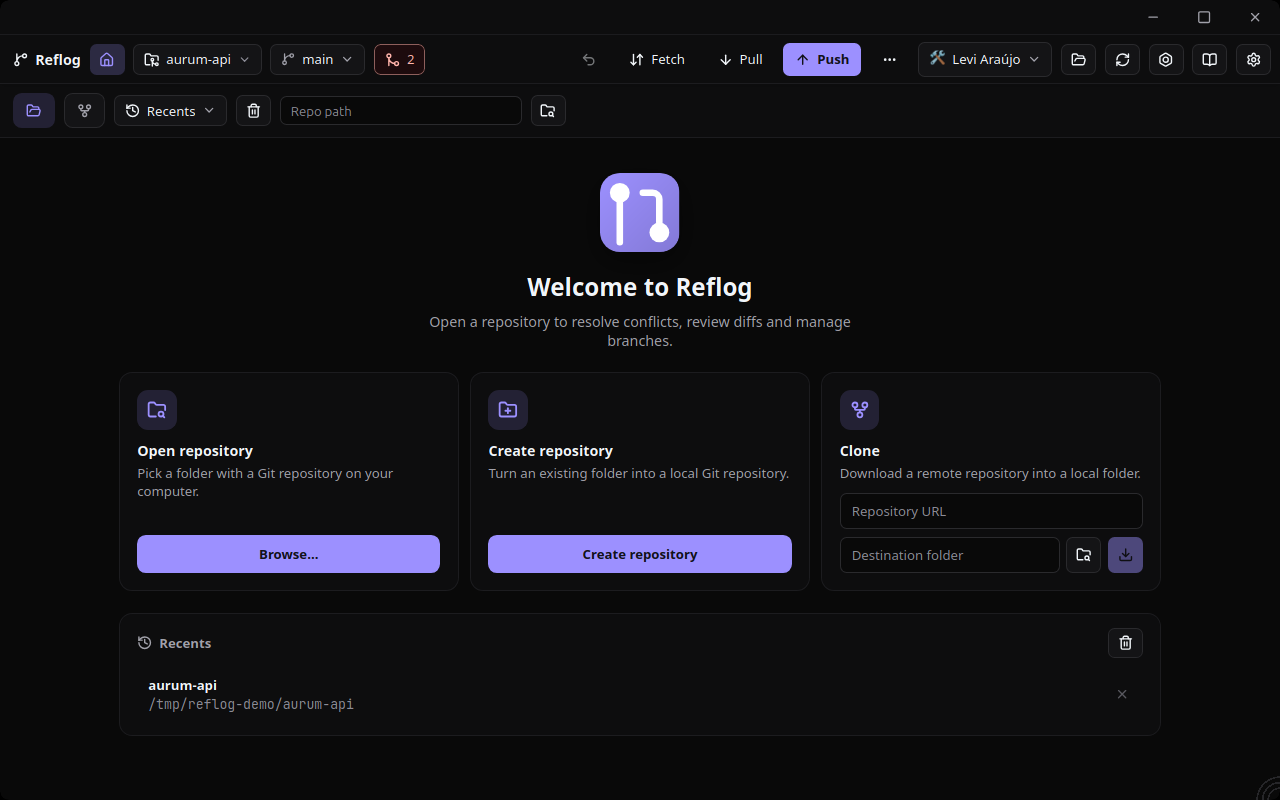
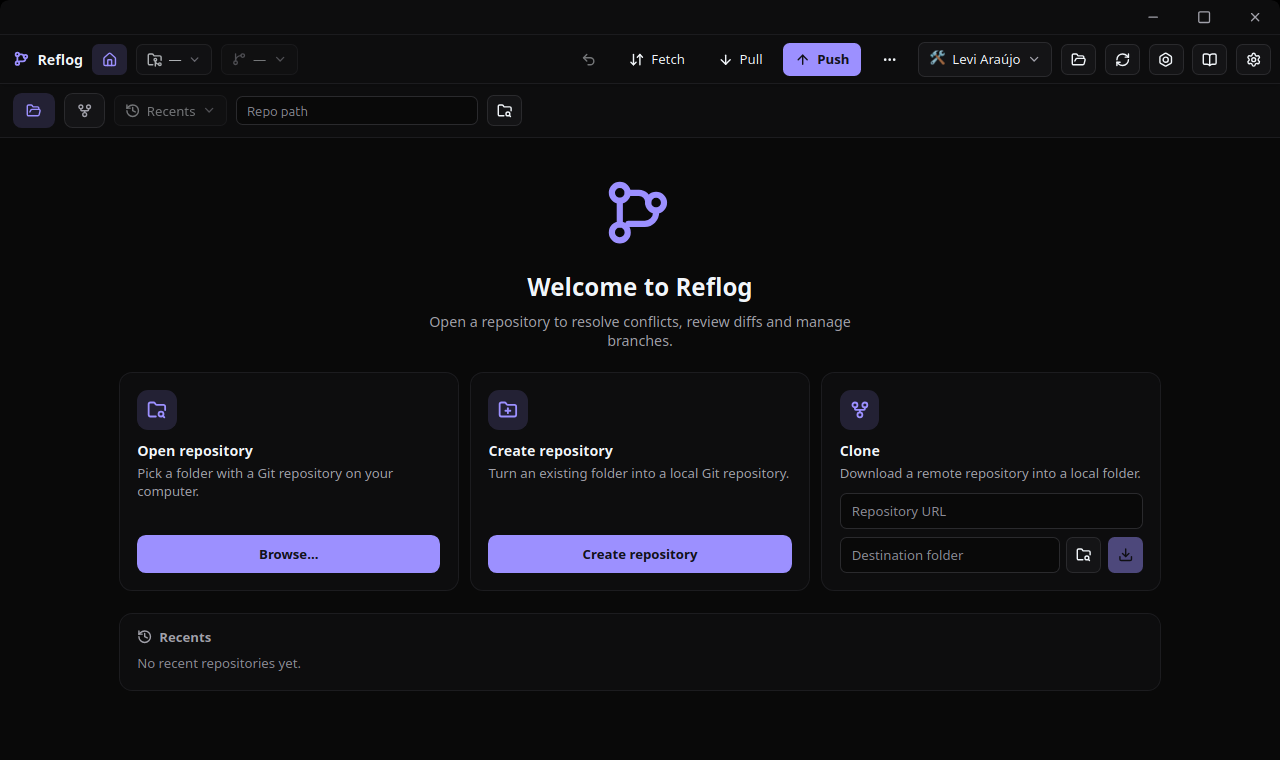
feat(landing): reveal the sections on scroll and ship the new welcome shot

diff --git a/web/hooks/useReveal.ts b/web/hooks/useReveal.ts
@@ -1,0 +1,30 @@
+import { useEffect, useRef, useState } from "react"
+
+export const useReveal = <T extends HTMLElement>() => {
+  const ref = useRef<T | null>(null)
+  const [revealed, setRevealed] = useState(false)
+
+  useEffect(() => {
+    const node = ref.current
+    if (!node) return
+
+    if (!("IntersectionObserver" in window)) {
+      setRevealed(true)
+      return
+    }
+
+    const observer = new IntersectionObserver(
+      ([entry]) => {
+        if (!entry?.isIntersecting) return
+        setRevealed(true)
+        observer.disconnect()
+      },
+      { rootMargin: "0px 0px -12% 0px", threshold: 0.08 },
+    )
+
+    observer.observe(node)
+    return () => observer.disconnect()
+  }, [])
+
+  return { ref, revealClassName: revealed ? "reveal reveal--visible" : "reveal" }
+}
